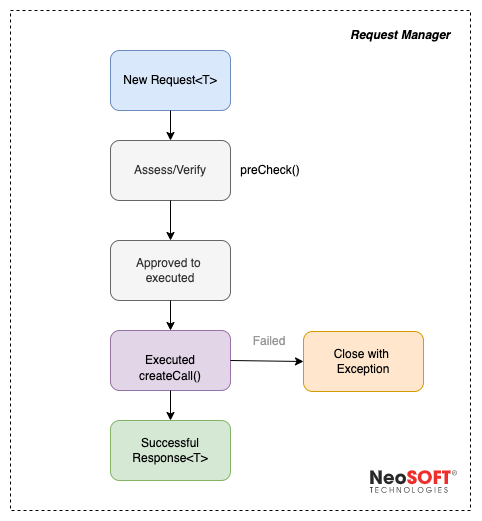
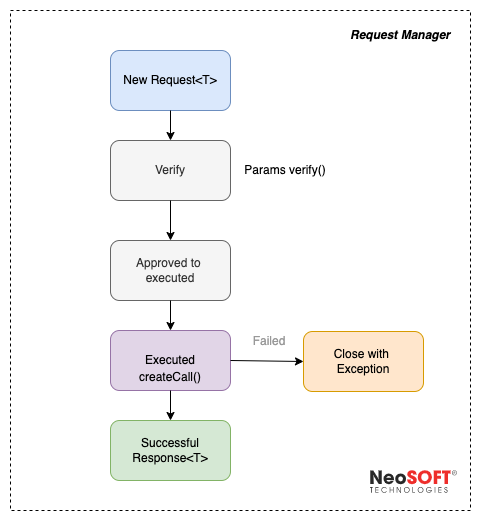
Updated request manager, arch diagram & project structure in mains

diff --git a/wiki/tree-like/top-level-structure.md b/wiki/tree-like/top-level-structure.md
@@ -1,14 +1,16 @@
 ## Top-level directory layout
 
-app                          # Application core implementation
-  .github/workflows        # Github workflow files
-  buildSrc                 # Kotlin DSL for setup build & dependencies
-  crash-reporting          # Crash reporting module/lib
-  data                     # Layer exposes all data source
-  domain                   # Domain layer contains all the use cases of your application
-  errors                   # Exception handling core Kotlin implementation
-  logger                   # Text-based logging library
-  screenshots              # Project screenshots
-  utils                    # Project utils
-  wiki                     # Documentation files
+.
+└── app                          # Application or UI layer
+    ├── .github/workflows        # Github workflow files
+    ├── buildSrc                 # Kotlin DSL for setup build & dependencies
+    ├── crash-reporting          # Crash reporting module/lib
+    ├── data                     # Layer exposes all data source
+    ├── domain                   # Domain layer contains all the use cases of your application
+    ├── errors                   # Exception handling pure Kotlin implementation
+    ├── logger                   # Text-based logging library
+    ├── presentation             # Prepares data for the application layer & maintains state
+    ├── screenshots              # Project screenshots
+    ├── utils                    # Project utils
+    └── wiki                     # Documentation files
 
